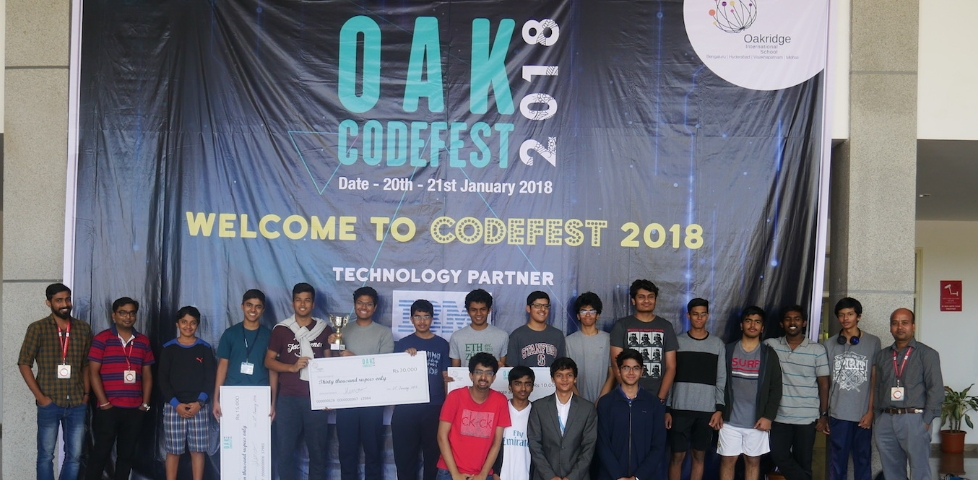
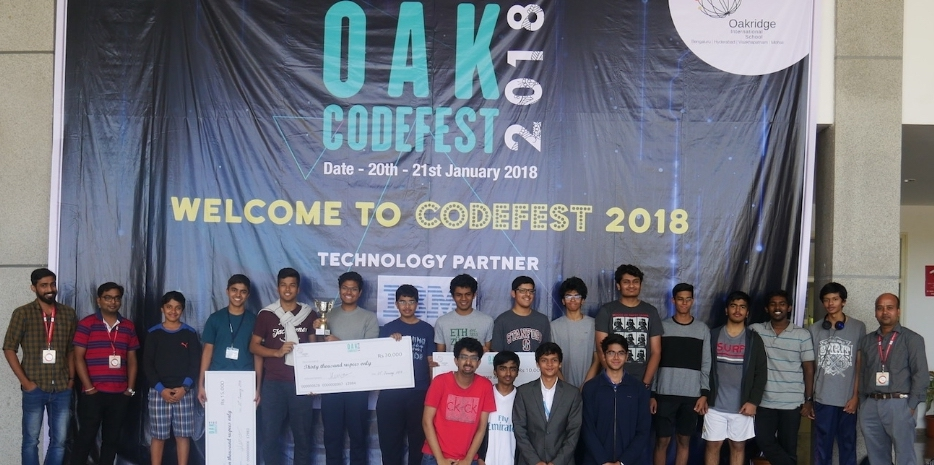
change event photos sizing behavior

diff --git a/src/site-data.js b/src/site-data.js
@@ -73,7 +73,7 @@ const siteData = {
     description: (
       <>
         Teams are expected to use at least one primary theme for their project
-        but are advised to choose two or more themes. For more infomation
+        but are advised to choose two or more themes. For more information
         regarding the themes please email us at{" "}
         <a href="mailto:oakcodefest@oakridge.in">oakcodefest@oakridge.in</a>
       </>

diff --git a/src/components/event-photos-section.js b/src/components/event-photos-section.js
@@ -13,7 +13,7 @@ function EventPhotosSection() {
           </Typography>
           <Parallax strength={250} bgStyle={{ width: "100vw" }}>
             <Background className="custom-bg">{section.image}</Background>
-            <div style={{ height: "40vh", overflow: "clip" }}></div>
+            <div style={{ height: "28vw", overflow: "clip" }}></div>
           </Parallax>
         </Box>
       ))}
